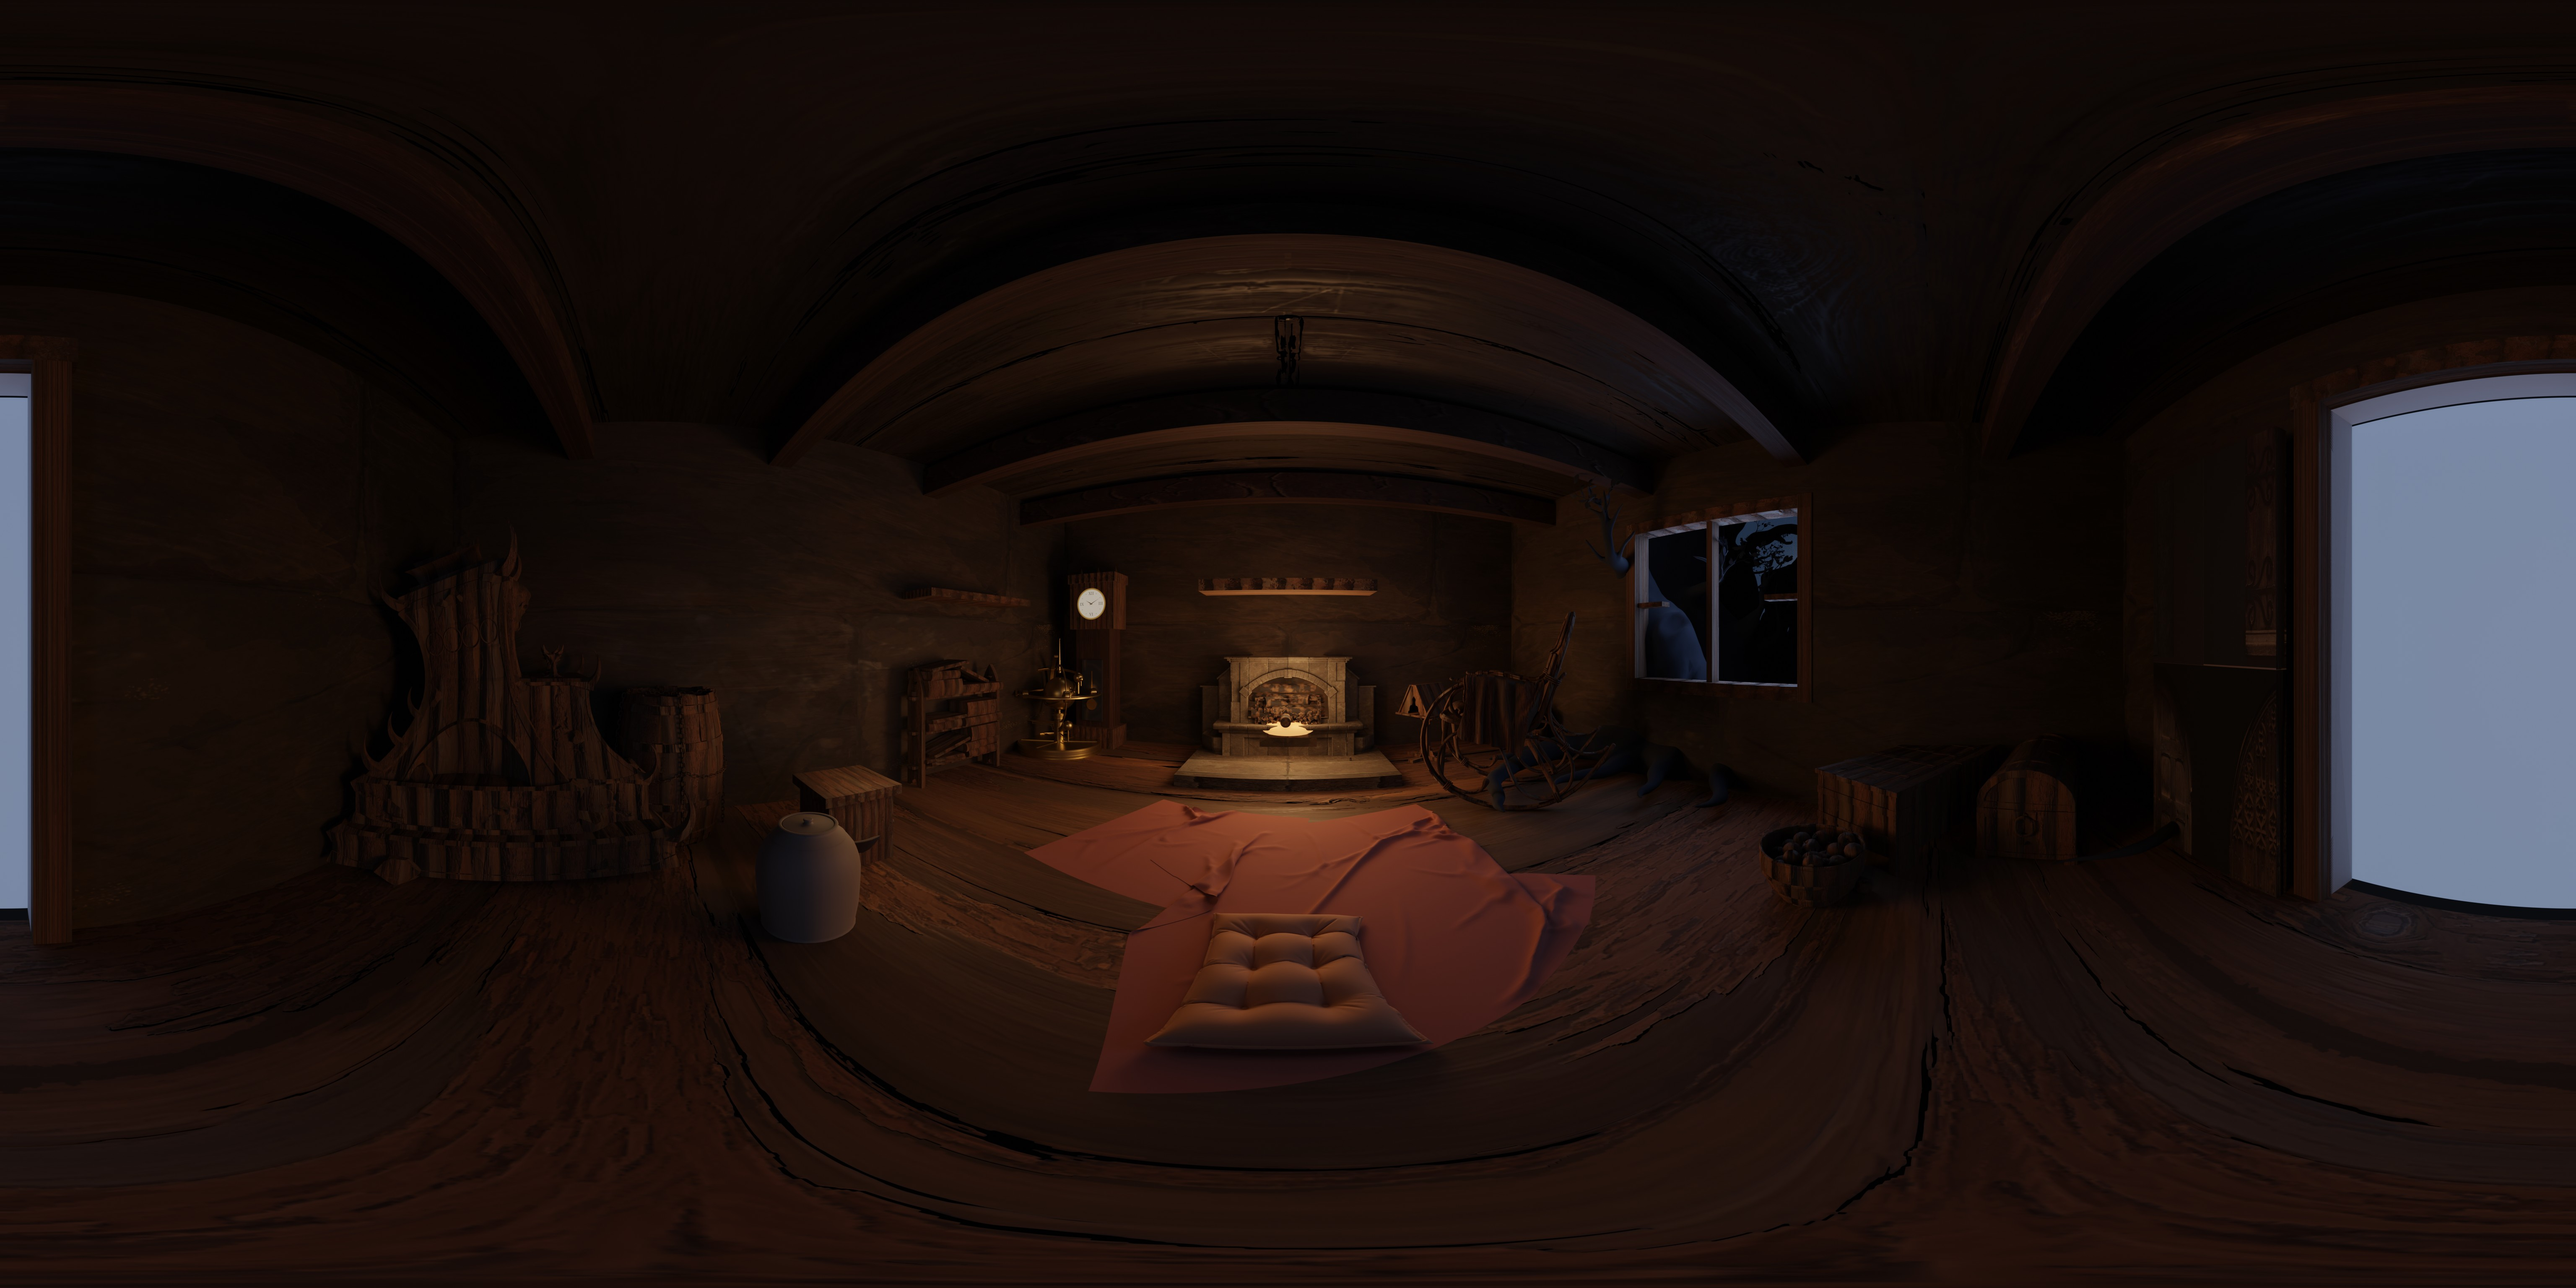
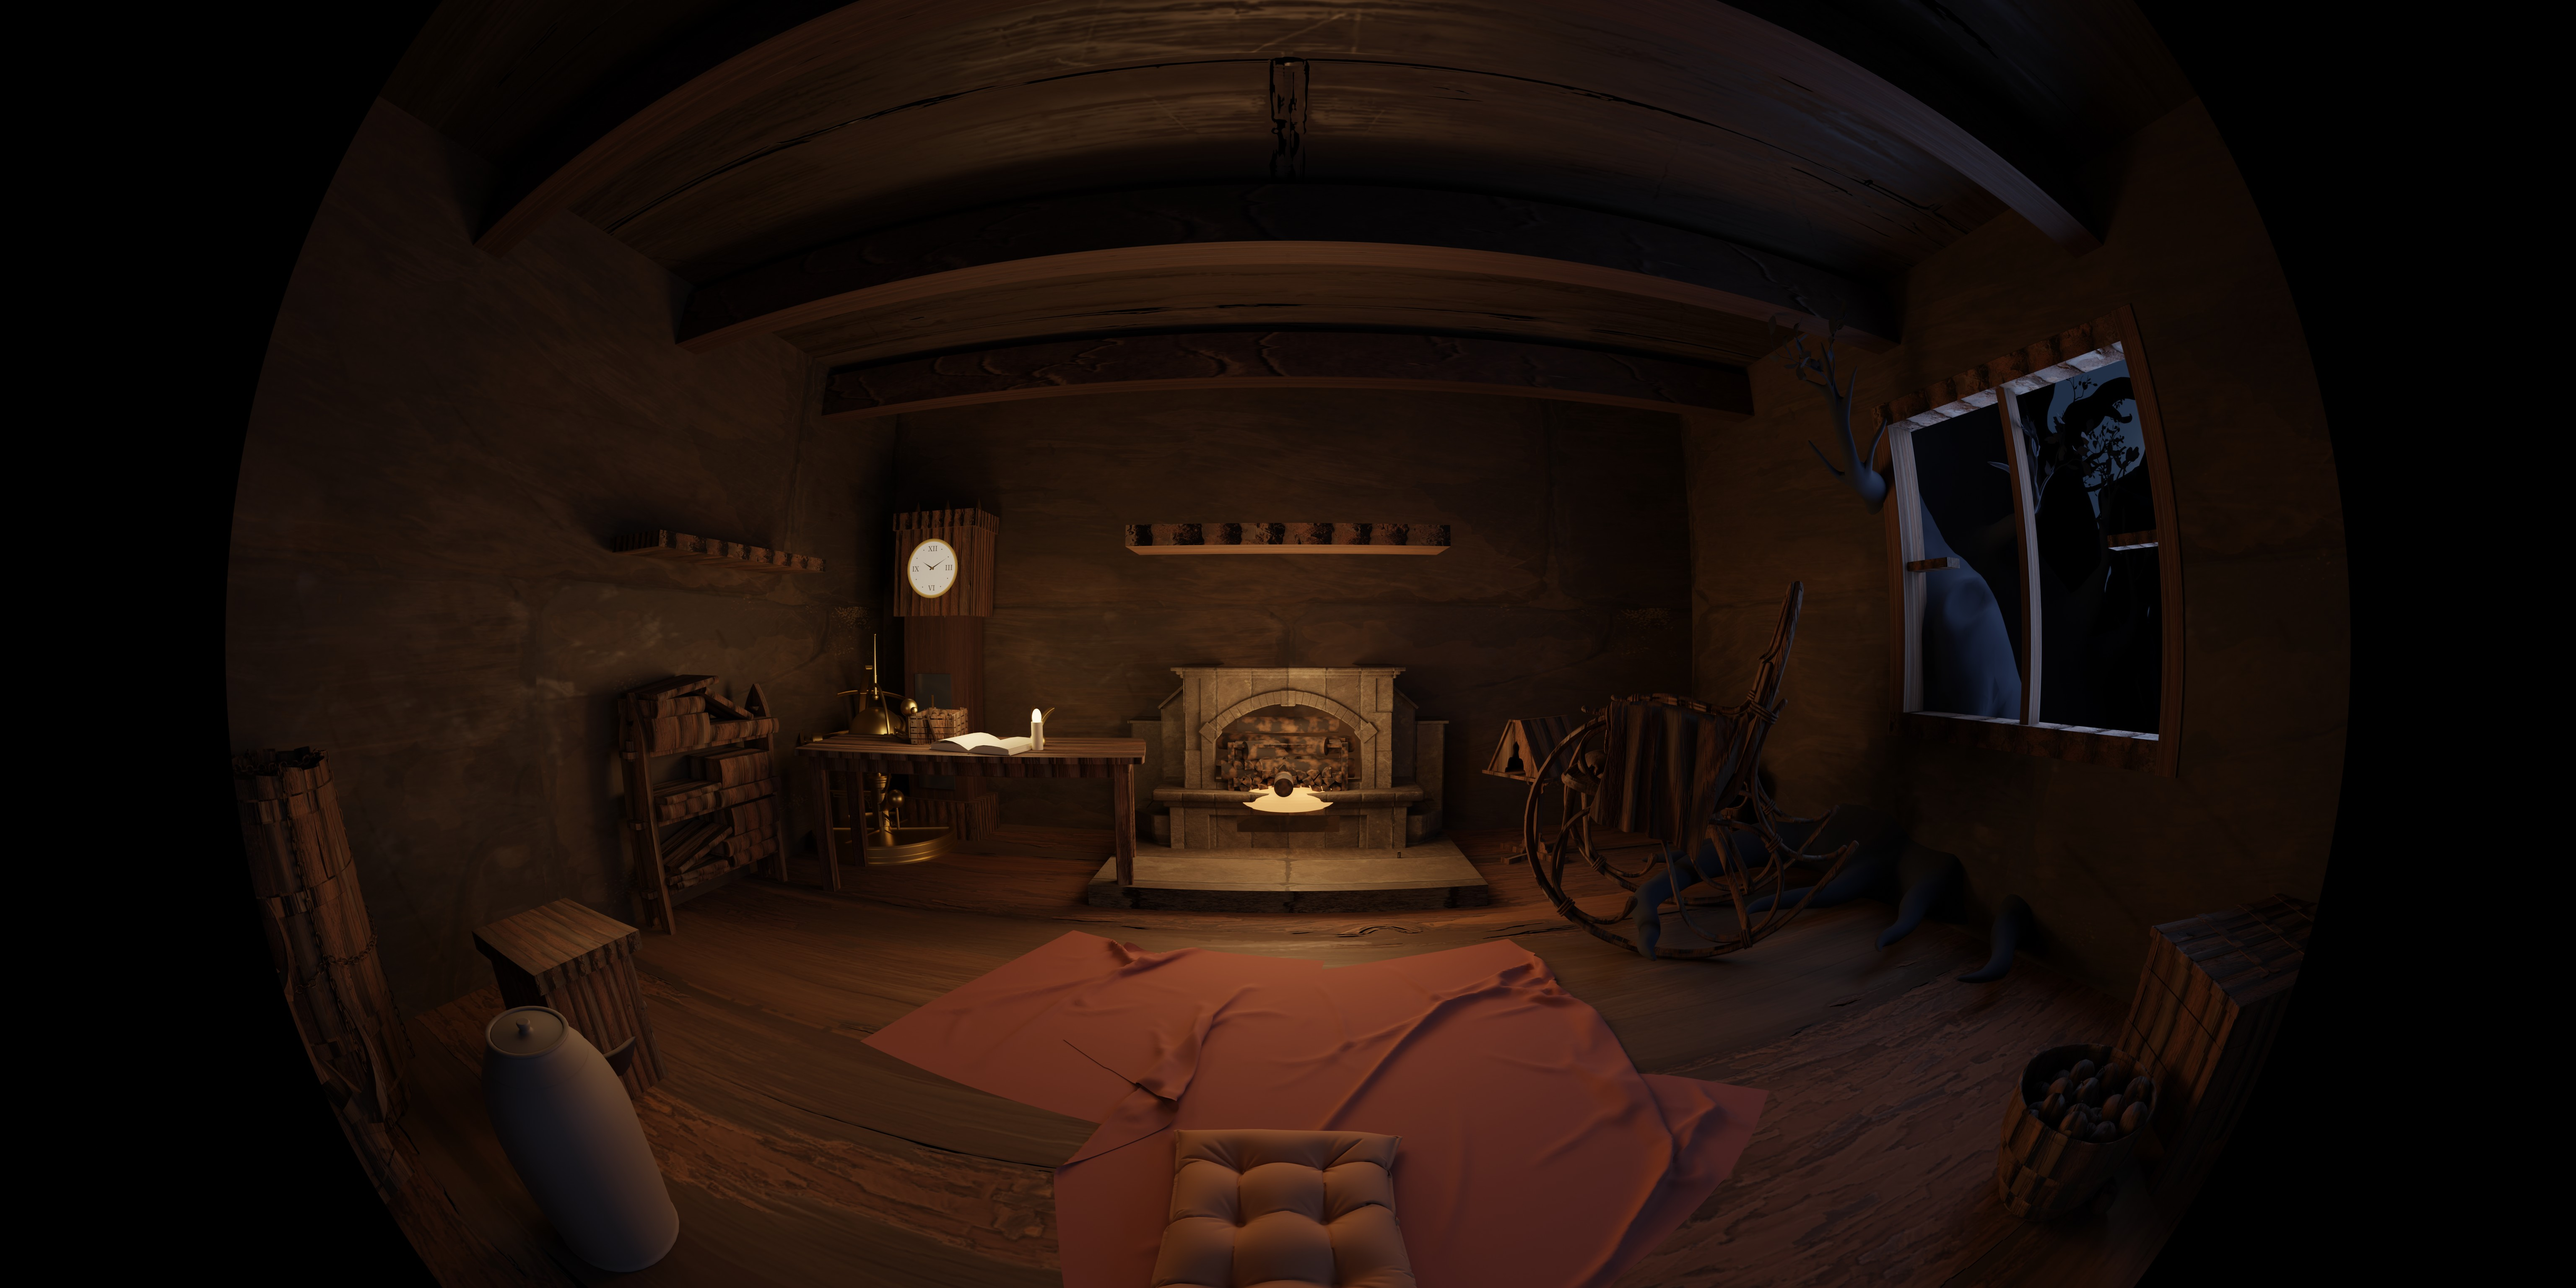
feat(cabin): add 灯火の文箱 letters nook to the 360 scene
文箱(みんなのメモ帳)の入口を、暖炉の左に視覚化した書き物ノオクとして配置。

- _blender/eci_meditation_360.py: Enchanted Interiors から writing desk +
  open guestbook + inkwell + crate of rolled letters を選び、蝋燭の灯と
  小さな暖色ポイントライトで前方左に目立つノオクを構築。
- あわせて Blender 5.1.1 互換修正: Principled BSDF の 'Emission' 入力が
  4.0+ で 'Emission Color' に改名された件を吸収する _emit_in() シムを追加
  (make_emissive / clock / night_sky)。両バージョンで動作。
- assets/cabin360.jpg / cabin-still.jpg: 6144x3072 equirect + 2560x1440 を
  Cycles(GPU/OPTIX, 265s)で再レンダ。
- cabin.html: letters マーカーをノオク位置(lon24/lat-16)へ移動。

diff --git a/cabin.html b/cabin.html
@@ -1788,7 +1788,7 @@ const MARKERS = [
   { key:'tale',     lon:46,  lat:-9,  r:4,   jp:'短編小説 · 焚き火は、消えない', en:'a short story' },
   { key:'remedy',   lon:51,  lat:-15, r:4,   jp:'処方箋 · 朝、ふとんから出られない君へ', en:'a prescription' },
   { key:'window',   lon:-63, lat:1,   r:6,   jp:'夜の森をのぞむ',       en:'the night forest' },
-  { key:'letters',  lon:125, lat:-12, r:5,   jp:'灯火の文箱 · みんなの言葉を読む / 残す', en:'letters by the fire' },
+  { key:'letters',  lon:24,  lat:-16, r:5,   jp:'灯火の文箱 · みんなの言葉を読む / 残す', en:'letters by the fire' },
   { key:'outside',  lon:186, lat:-14, r:6,   jp:'扉から外へ出る',        en:'step out the door' },
 ];
 // out by the lake under the stars

diff --git a/_blender/eci_meditation_360.py b/_blender/eci_meditation_360.py
@@ -80,11 +80,15 @@ def make_solid(name, color, rough=0.8, metal=0.0, sheen=0.0):
     if 'Sheen' in b.inputs: b.inputs['Sheen'].default_value = sheen
     return m
 
+def _emit_in(b):
+    # Principled BSDF emission socket: 'Emission Color' (Blender 4.0+) or 'Emission' (3.x)
+    return 'Emission Color' if 'Emission Color' in b.inputs else 'Emission'
+
 def make_emissive(name, color, strength):
     m = bpy.data.materials.new(name); m.use_nodes = True
     b = m.node_tree.nodes.get('Principled BSDF')
     b.inputs['Base Color'].default_value = (*color, 1)
-    b.inputs['Emission'].default_value = (*color, 1)
+    b.inputs[_emit_in(b)].default_value = (*color, 1)
     b.inputs['Emission Strength'].default_value = strength
     return m
 
@@ -173,9 +177,13 @@ KIT = {
     'KB3D_ECI_PropEarthGlobe_A_Main':   ('brass',   -2.25,  1.95, 25,  0.42),  # small armillary globe, tucked into the left-back corner
     'KB3D_ECI_PropArmorChest_A_Main':   ('wood',     2.40,  2.05, -120,0.9),   # ornate antique chest, right-back corner
     'KB3D_ECI_PropBookStand_A_Main':    ('wood',     1.30,  2.20, -150,0.9),   # reading lectern near the hearth
+    'KB3D_ECI_PropTable_C_Main':        ('wood',    -1.42,  1.62,  10,  0.8),   # 灯火の文箱: writing desk left of the hearth (letters nook)
 }
 # the wizard-office tree, kept only to instance a forest beyond the window
-KEEP_EXTRA = {'KB3D_ECI_IntWizardOffice_A_Tree'}
+KEEP_EXTRA = {'KB3D_ECI_IntWizardOffice_A_Tree',
+              'KB3D_ECI_PropRolledPapersCrate_A_Main',  # the 文箱 (crate of rolled letters)
+              'KB3D_ECI_PropOpenBook_A_Main',           # open guestbook
+              'KB3D_ECI_PropInkwell_A_Main'}            # inkwell
 keep = set(KIT.keys()) | KEEP_EXTRA; removed = 0
 for o in list(bpy.data.objects):
     if o.name not in keep:
@@ -303,7 +311,7 @@ def clock_face_mat():
         tex = nodes.new('ShaderNodeTexImage'); tex.image = img
         links.new(tex.outputs['Color'], bsdf.inputs['Base Color'])
         links.new(tex.outputs['Alpha'], bsdf.inputs['Alpha'])
-        links.new(tex.outputs['Color'], bsdf.inputs['Emission']); bsdf.inputs['Emission Strength'].default_value = 0.45
+        links.new(tex.outputs['Color'], bsdf.inputs[_emit_in(bsdf)]); bsdf.inputs['Emission Strength'].default_value = 0.45
     except Exception as e:
         print('[clock] face tex fail', e, flush=True)
     bsdf.inputs['Roughness'].default_value = 0.5
@@ -344,7 +352,7 @@ bl.new(tcg.outputs['Generated'], mpg.inputs['Vector']); bl.new(mpg.outputs['Vect
 bl.new(grad.outputs['Color'], ramp.inputs['Fac'])
 ramp.color_ramp.elements[0].color = (0.004, 0.010, 0.022, 1)   # horizon
 ramp.color_ramp.elements[1].color = (0.028, 0.055, 0.11, 1)    # upper sky (moonlit)
-bl.new(ramp.outputs['Color'], em.inputs['Emission']); em.inputs['Emission Strength'].default_value = 0.6
+bl.new(ramp.outputs['Color'], em.inputs[_emit_in(em)]); em.inputs['Emission Strength'].default_value = 0.6
 set_mat(bd, bdm)
 # moon
 bpy.ops.mesh.primitive_circle_add(radius=0.6, fill_type='NGON', location=(RX+12.5, 2.6, 3.4))
@@ -382,6 +390,32 @@ add_light('POINT', 'HearthFill', (0, 1.5, 0.95), 26, (1.0, 0.5, 0.22), size=0.9)
 mo = add_light('AREA', 'MoonLight', (RX+0.3, 0.1, 1.5), 46, (0.42, 0.58, 1.0), size=2.4)
 mo.rotation_euler = (0, math.radians(82), 0)
 add_light('POINT', 'NookFill', (-1.6, -0.4, 0.7), 5, (1.0, 0.6, 0.3), size=0.4)   # faint warm light by the bowl/books
+
+# ── 灯火の文箱 (letters nook): on the writing desk left of the hearth, set an open
+#    guestbook (write here), an inkwell, a lit candle, and a crate of rolled letters
+#    (the 文箱 itself — letters left by others). Lit so it draws the eye. ──
+def _letters_nook():
+    desk = bpy.data.objects.get('KB3D_ECI_PropTable_C_Main')
+    if not desk:
+        print('[nook] desk missing', flush=True); return
+    mn, mx = world_bbox(desk); top = mx.z; cx = (mn.x + mx.x) / 2; cy = (mn.y + mx.y) / 2
+    def place_on(name, mat, dx, dy, sc, rz=0.0):
+        o = bpy.data.objects.get(name)
+        if not o:
+            print('[nook MISS]', name, flush=True); return
+        o.rotation_euler = (0, 0, math.radians(rz)); o.scale = (sc, sc, sc)
+        bpy.context.view_layer.update()
+        bm, bxx = world_bbox(o)
+        o.location.x += (cx + dx - (bm.x + bxx.x) / 2)
+        o.location.y += (cy + dy - (bm.y + bxx.y) / 2)
+        o.location.z += (top - bm.z)
+        set_mat(o, MAT[mat]); bpy.context.view_layer.update()
+    place_on('KB3D_ECI_PropRolledPapersCrate_A_Main', 'wood',  -0.22, 0.12, 0.78, 14)  # crate of letters (the 文箱)
+    place_on('KB3D_ECI_PropOpenBook_A_Main',          'ivory',  0.10, -0.06, 1.05, -8)  # open guestbook
+    place_on('KB3D_ECI_PropInkwell_A_Main',           'brass',  0.30, 0.12, 1.0)         # inkwell
+    spawn_candle(cx + 0.34, cy - 0.04, top, 0.12)                                        # a small lit candle
+    add_light('POINT', 'NookGlow', (cx, cy, top + 0.26), 16, (1.0, 0.58, 0.26), size=0.22)
+_letters_nook()
 
 # ============================================================ world
 world = scene.world or bpy.data.worlds.new('W'); scene.world = world
